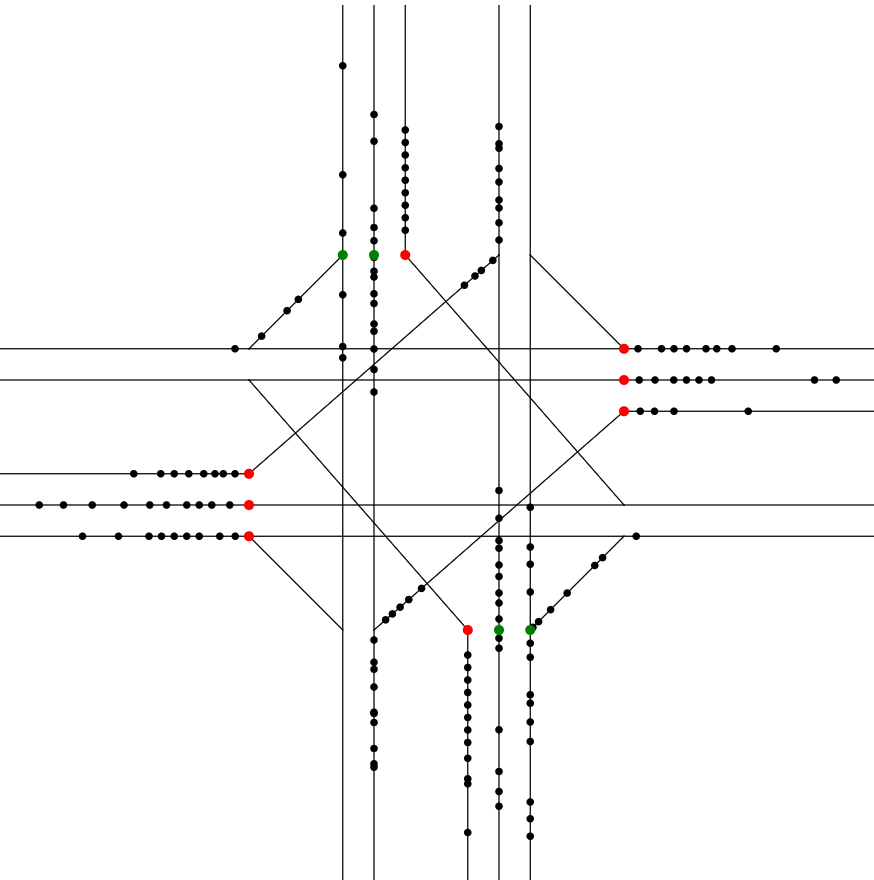
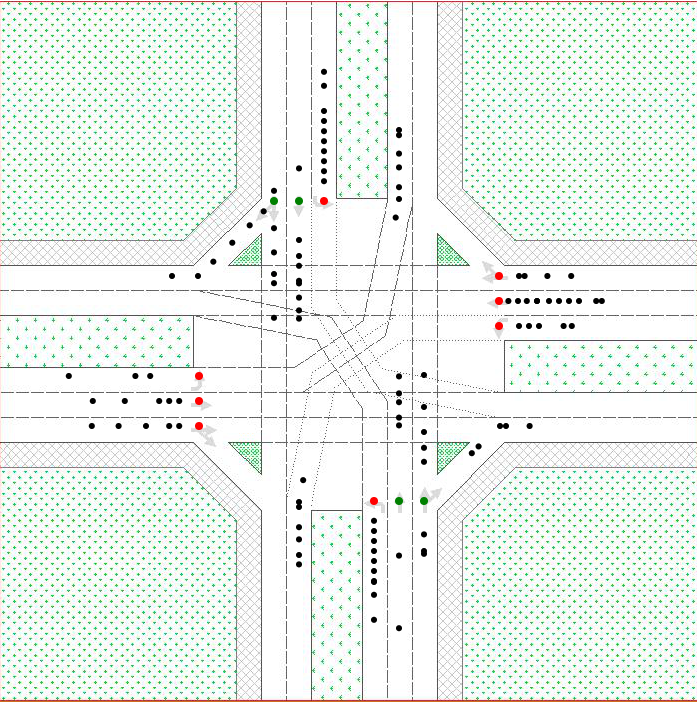
podkład i podmiana dokumentacji.

Changed region(s): [[0.0, 0.0, 1.0, 1.0]]

diff --git a/src/sample/Main.java b/src/sample/Main.java
@@ -2,8 +2,12 @@ package sample;
 
 import javafx.application.Application;
 import javafx.scene.Scene;
+import javafx.scene.image.Image;
+import javafx.scene.image.ImageView;
 import javafx.scene.layout.Pane;
 import javafx.stage.Stage;
+
+import java.io.File;
 
 import static java.lang.Thread.sleep;
 
@@ -12,8 +16,12 @@ public class Main extends Application {
     @Override
     public void start(Stage primaryStage) {
 
-        primaryStage.setTitle("Hello World");
+        primaryStage.setTitle("TrafficSim");
         Pane root = new Pane();
+        File file = new File("D:\\JAVA Projekty\\TrafficSimXXXXX\\src\\sample\\podklad-Model.jpg");
+        Image img = new Image(file.toURI().toString());
+        ImageView imgView = new ImageView(img);
+        root.getChildren().add(imgView);
         Controller controller = new Controller(root);
         controller.initializeModel();
 

diff --git a/src/sample/Street.java b/src/sample/Street.java
@@ -40,6 +40,7 @@ public class Street {
         this.start = start;
         this.end = end;
         this.line = new Line(start.getX(), start.getY(), end.getX(), end.getY());
+        this.line.setVisible(false);
         this.direction = new Direction(this.start, this.end);
 
         int y = Math.abs(start.getY() - end.getY());
